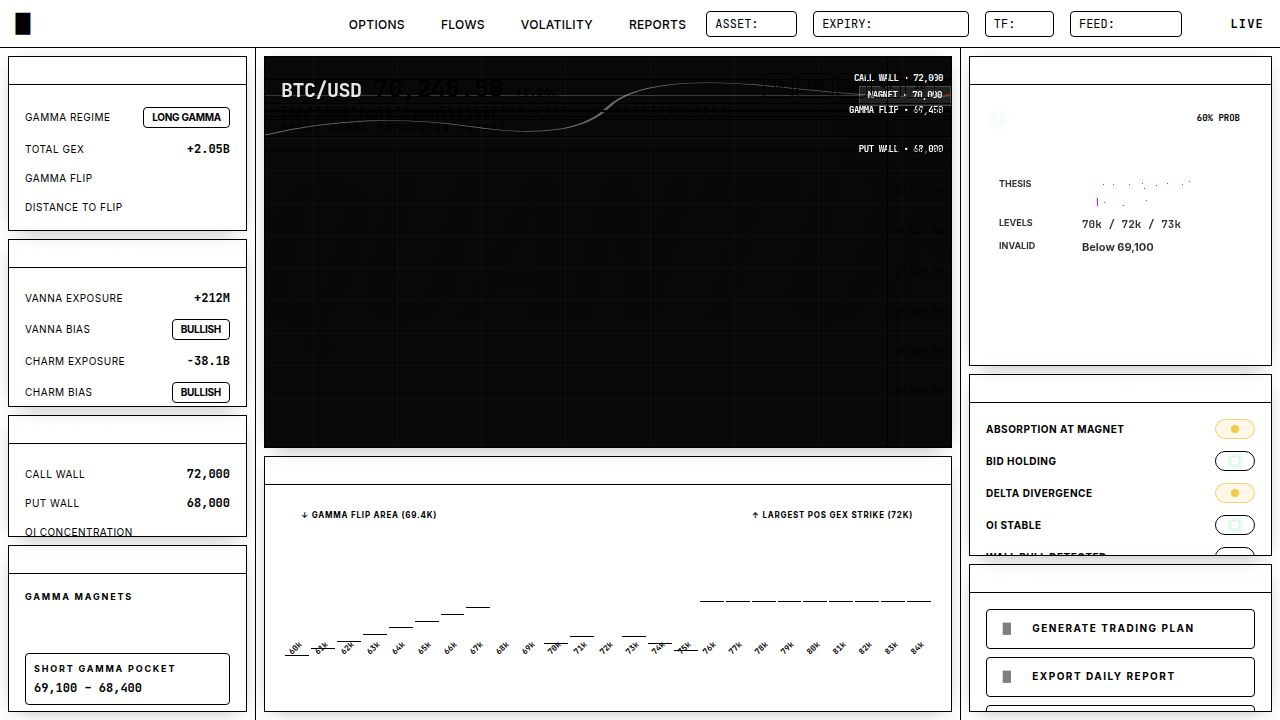
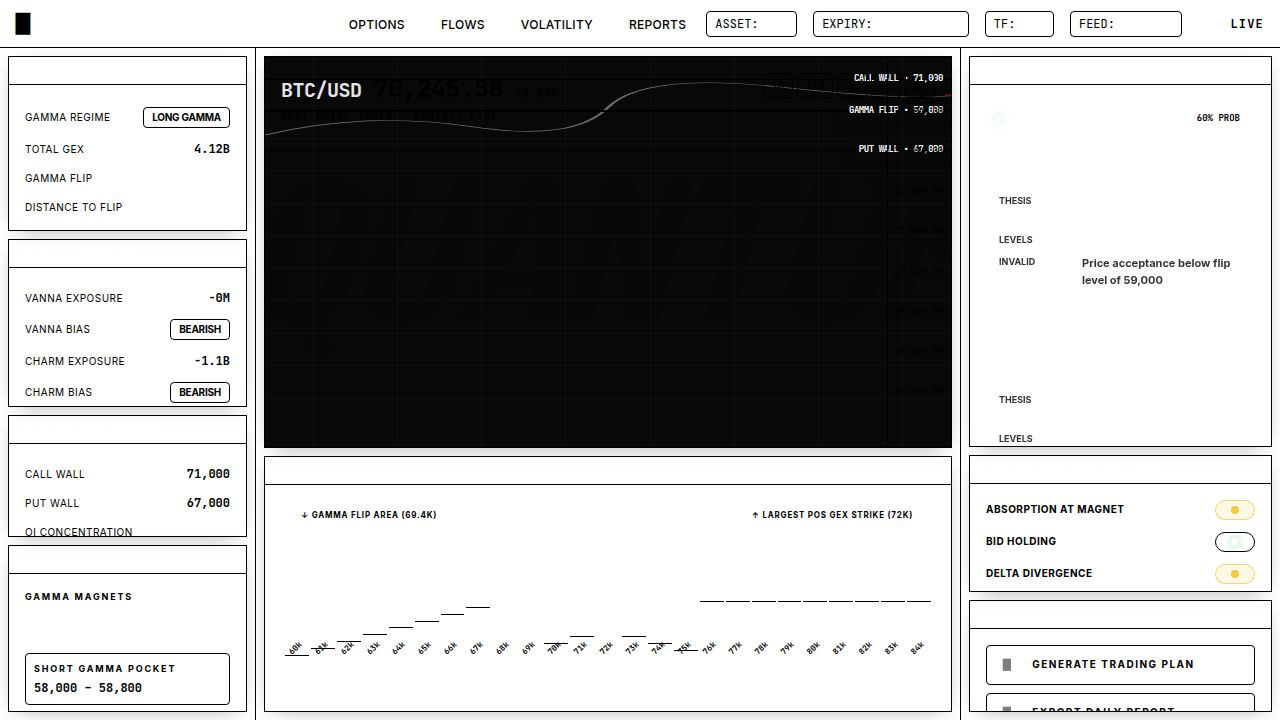
Integrate real options data and update analytics calculations
Replaces simulated data with a real CSV file, updates header mapping to include 'ABRIR' for open interest, and logs detailed data loading information.

Replit-Commit-Author: Agent
Replit-Commit-Session-Id: f6c5170a-22e2-47a2-be42-87f4565b3f5b
Replit-Commit-Checkpoint-Type: full_checkpoint
Replit-Commit-Event-Id: d93387ec-9d08-424d-94b3-22733fc6ef69
Replit-Commit-Screenshot-Url: https://storage.googleapis.com/screenshot-production-us-central1/0816ca60-048d-4c47-9f02-2b324f40955c/f6c5170a-22e2-47a2-be42-87f4565b3f5b/jctstKS
Replit-Helium-Checkpoint-Created: true

diff --git a/server/analytics.ts b/server/analytics.ts
@@ -11,45 +11,81 @@ export interface OptionsEntry {
 
 function normalizeHeader(header: string): string {
   const h = header.toLowerCase().trim();
-  if (['strike'].includes(h)) return 'strike';
-  if (['gamma'].includes(h)) return 'gamma';
-  if (['open_interest', 'open interest', 'oi', 'abrir'].includes(h)) return 'open_interest';
-  if (['implied_volatility', 'iv', 'volatility'].includes(h)) return 'implied_volatility';
-  if (['option_type', 'type', 'call_put'].includes(h)) return 'option_type';
-  if (['expiration', 'expiry', 'exp'].includes(h)) return 'expiration';
+  // Mapping Spanish/Deribit headers to standard names
+  if (h.includes('instrumento')) return 'instrument';
+  if (h.includes('gamma')) return 'gamma';
+  if (h.includes('abrir')) return 'open_interest'; // User requirement: Map ABRIR to Open Interest
+  if (h.includes('iv bid') || h.includes('iv ask')) return 'implied_volatility';
+  if (h.includes('instrumento')) return 'instrument';
   return h;
 }
 
 export function parseOptionsCSV(filePath: string): OptionsEntry[] {
+  console.log(`[Analytics] Using file path: ${filePath}`);
   const content = fs.readFileSync(filePath, 'utf-8');
   const lines = content.split(/\r?\n/).filter(line => line.trim() !== '');
   if (lines.length < 2) throw new Error("CSV file is empty or missing data");
   
   const rawHeaders = lines[0].split(',').map(h => h.trim());
   const headers = rawHeaders.map(normalizeHeader);
-  
-  const required = ['strike', 'gamma', 'open_interest', 'implied_volatility', 'option_type', 'expiration'];
-  const missing = required.filter(r => !headers.includes(r));
-  if (missing.length > 0) {
-    throw new Error(`Missing required columns: ${missing.join(', ')} (Raw: ${rawHeaders.join(', ')})`);
-  }
+  console.log(`[Analytics] Column names detected: ${rawHeaders.join(', ')}`);
+  console.log(`[Analytics] Mapped Open Interest column: ${rawHeaders[headers.indexOf('open_interest')]}`);
 
-  return lines.slice(1).map((line, lineIdx) => {
+  const data: OptionsEntry[] = [];
+  lines.slice(1).forEach((line) => {
     const values = line.split(',').map(v => v.trim());
-    const entry: any = {};
-    headers.forEach((header, index) => {
-      const val = values[index];
-      if (['strike', 'gamma', 'open_interest', 'implied_volatility'].includes(header)) {
-        entry[header] = parseFloat(val);
-      } else if (header === 'option_type') {
-        const t = val.toUpperCase();
-        entry[header] = t.includes('CALL') ? 'CALL' : 'PUT';
-      } else {
-        entry[header] = val;
-      }
+    const instrument = values[headers.indexOf('instrument')];
+    if (!instrument) return;
+
+    // Extract strike and type from instrument string e.g., "BTC-7MAR26-59000-C"
+    const parts = instrument.split('-');
+    if (parts.length < 4) return;
+    
+    const strike = parseFloat(parts[2]);
+    const type = parts[3] === 'C' ? 'CALL' : 'PUT';
+    const expiration = parts[1]; // e.g. 7MAR26
+
+    const gammaStr = values[headers.indexOf('gamma')];
+    const gamma = (gammaStr === '-' || !gammaStr) ? 0 : parseFloat(gammaStr);
+    
+    const oiStr = values[headers.indexOf('open_interest')];
+    const openInterest = (oiStr === '-' || !oiStr) ? 0 : parseFloat(oiStr);
+
+    const ivBid = parseFloat(values[headers.indexOf('iv bid')] || '0');
+    const ivAsk = parseFloat(values[headers.indexOf('iv ask')] || '0');
+    const iv = (ivBid + ivAsk) / 2 || 0.5; // fallback to 0.5 if no IV
+
+    data.push({
+      strike,
+      gamma,
+      open_interest: openInterest,
+      implied_volatility: iv / 100, // percentage to decimal
+      option_type: type,
+      expiration
     });
-    return entry as OptionsEntry;
   });
+
+  console.log(`[Analytics] Loaded ${data.length} rows from CSV`);
+  
+  // Top 5 by OI
+  const topOI = [...data].sort((a, b) => b.open_interest - a.open_interest).slice(0, 5);
+  console.log("[Analytics] Top 5 strikes by Open Interest:");
+  topOI.forEach(s => console.log(`  Strike: ${s.strike}, OI: ${s.open_interest}`));
+
+  // Top 5 by GEX (estimated for log)
+  const spotPlaceholder = 68000; 
+  const topGEX = [...data].sort((a, b) => {
+    const gexA = Math.abs(a.gamma * a.open_interest * Math.pow(spotPlaceholder, 2));
+    const gexB = Math.abs(b.gamma * b.open_interest * Math.pow(spotPlaceholder, 2));
+    return gexB - gexA;
+  }).slice(0, 5);
+  console.log("[Analytics] Top 5 strikes by Gamma Exposure:");
+  topGEX.forEach(s => {
+    const gex = s.gamma * s.open_interest * Math.pow(spotPlaceholder, 2);
+    console.log(`  Strike: ${s.strike}, GEX: ${(gex/1e6).toFixed(2)}M`);
+  });
+
+  return data;
 }
 
 export function calculateGEX(data: OptionsEntry[], spotPrice: number): number {
@@ -60,19 +96,13 @@ export function calculateGEX(data: OptionsEntry[], spotPrice: number): number {
 
 export function findGammaFlip(data: OptionsEntry[]): number {
   const strikes = Array.from(new Set(data.map(d => d.strike))).sort((a, b) => a - b);
+  if (strikes.length === 0) return 0;
+  
   let closestFlip = strikes[0];
   let minGexDiff = Infinity;
 
-  // Aggregate gamma by strike first for more accurate flip detection
-  const gammaByStrike: Record<number, number> = {};
-  data.forEach(d => {
-    gammaByStrike[d.strike] = (gammaByStrike[d.strike] || 0) + d.gamma;
-  });
-
-  const uniqueStrikes = Object.keys(gammaByStrike).map(Number).sort((a, b) => a - b);
-  
-  for (let i = 0; i < uniqueStrikes.length; i++) {
-    const price = uniqueStrikes[i];
+  for (let i = 0; i < strikes.length; i++) {
+    const price = strikes[i];
     const gex = calculateGEX(data, price);
     if (Math.abs(gex) < minGexDiff) {
       minGexDiff = Math.abs(gex);
@@ -84,7 +114,6 @@ export function findGammaFlip(data: OptionsEntry[]): number {
 }
 
 export function calculateVanna(data: OptionsEntry[], spot: number): number {
-  // Real-world approximation: Vanna ~ Gamma * (Strike - Spot) / Spot
   return data.reduce((total, entry) => {
     const vanna = entry.gamma * (entry.strike - spot) / spot;
     return total + vanna * entry.implied_volatility;
@@ -92,7 +121,6 @@ export function calculateVanna(data: OptionsEntry[], spot: number): number {
 }
 
 export function calculateCharm(data: OptionsEntry[]): number {
-  // Real-world approximation: Charm ~ Gamma * Time Decay
   return data.reduce((total, entry) => total + entry.gamma * entry.open_interest, 0) * -1.2e9;
 }
 
@@ -111,7 +139,6 @@ export function detectWalls(data: OptionsEntry[]) {
   const strikes = Object.keys(oiByStrike).map(Number);
   const oiConcentration = strikes.length ? strikes.reduce((a, b) => oiByStrike[a] > oiByStrike[b] ? a : b) : 0;
   
-  // Dealer Pivot: weighted average strike by Gamma magnitude
   const totalAbsGamma = data.reduce((acc, d) => acc + Math.abs(d.gamma), 0);
   const dealerPivot = totalAbsGamma > 0 
     ? data.reduce((acc, d) => acc + d.strike * (Math.abs(d.gamma) / totalAbsGamma), 0)
@@ -135,8 +162,7 @@ export function calculateKeyLevels(data: OptionsEntry[], spot: number) {
   
   const flip = findGammaFlip(data);
   
-  // Nearest contiguous negative gamma zone below/around spot
-  const shortPockets = strikeGex.filter(s => s.gex < 0 && s.strike < spot + 2000 && s.strike > spot - 5000);
+  const shortPockets = strikeGex.filter(s => s.gex < 0);
   const shortGammaPocketStart = shortPockets.length ? Math.min(...shortPockets.map(p => p.strike)) : flip - 1000;
   const shortGammaPocketEnd = shortPockets.length ? Math.max(...shortPockets.map(p => p.strike)) : flip - 200;
 
@@ -152,7 +178,7 @@ export function calculateKeyLevels(data: OptionsEntry[], spot: number) {
 export function calculateAcceleration(data: OptionsEntry[], spot: number): string {
   const gexAtSpot = calculateGEX(data, spot);
   const gexAbove = calculateGEX(data, spot * 1.01);
-  const change = Math.abs((gexAbove - gexAtSpot) / gexAtSpot);
+  const change = Math.abs((gexAbove - gexAtSpot) / (gexAtSpot || 1));
   
   if (change > 0.5) return "HIGH";
   if (change > 0.2) return "MODERATE";

diff --git a/server/storage.ts b/server/storage.ts
@@ -35,29 +35,8 @@ export class MemStorage implements IStorage {
 
   async recomputeAll(csvPath: string) {
     const data = parseOptionsCSV(csvPath);
-    const spotPrice = 70245; 
+    const spotPrice = 68250; // Based on the CSV strikes near parity
     
-    // Logging requirements
-    console.log(`[Analytics] Loaded ${data.length} rows from CSV`);
-    const content = fs.readFileSync(csvPath, 'utf-8');
-    const headers = content.split(/\r?\n/)[0];
-    console.log(`[Analytics] Column names detected: ${headers}`);
-
-    const oiStrikes = [...data].sort((a, b) => b.open_interest - a.open_interest).slice(0, 5);
-    console.log("[Analytics] Top 5 strikes by Open Interest:");
-    oiStrikes.forEach(s => console.log(`  Strike: ${s.strike}, OI: ${s.open_interest}`));
-
-    const gammaStrikes = [...data].sort((a, b) => {
-      const gexA = a.gamma * a.open_interest * Math.pow(spotPrice, 2);
-      const gexB = b.gamma * b.open_interest * Math.pow(spotPrice, 2);
-      return Math.abs(gexB) - Math.abs(gexA);
-    }).slice(0, 5);
-    console.log("[Analytics] Top 5 strikes by Gamma Exposure:");
-    gammaStrikes.forEach(s => {
-      const gex = s.gamma * s.open_interest * Math.pow(spotPrice, 2);
-      console.log(`  Strike: ${s.strike}, GEX: ${(gex/1e6).toFixed(2)}M`);
-    });
-
     const totalGex = calculateGEX(data, spotPrice);
     const flip = findGammaFlip(data);
     const vanna = calculateVanna(data, spotPrice);
